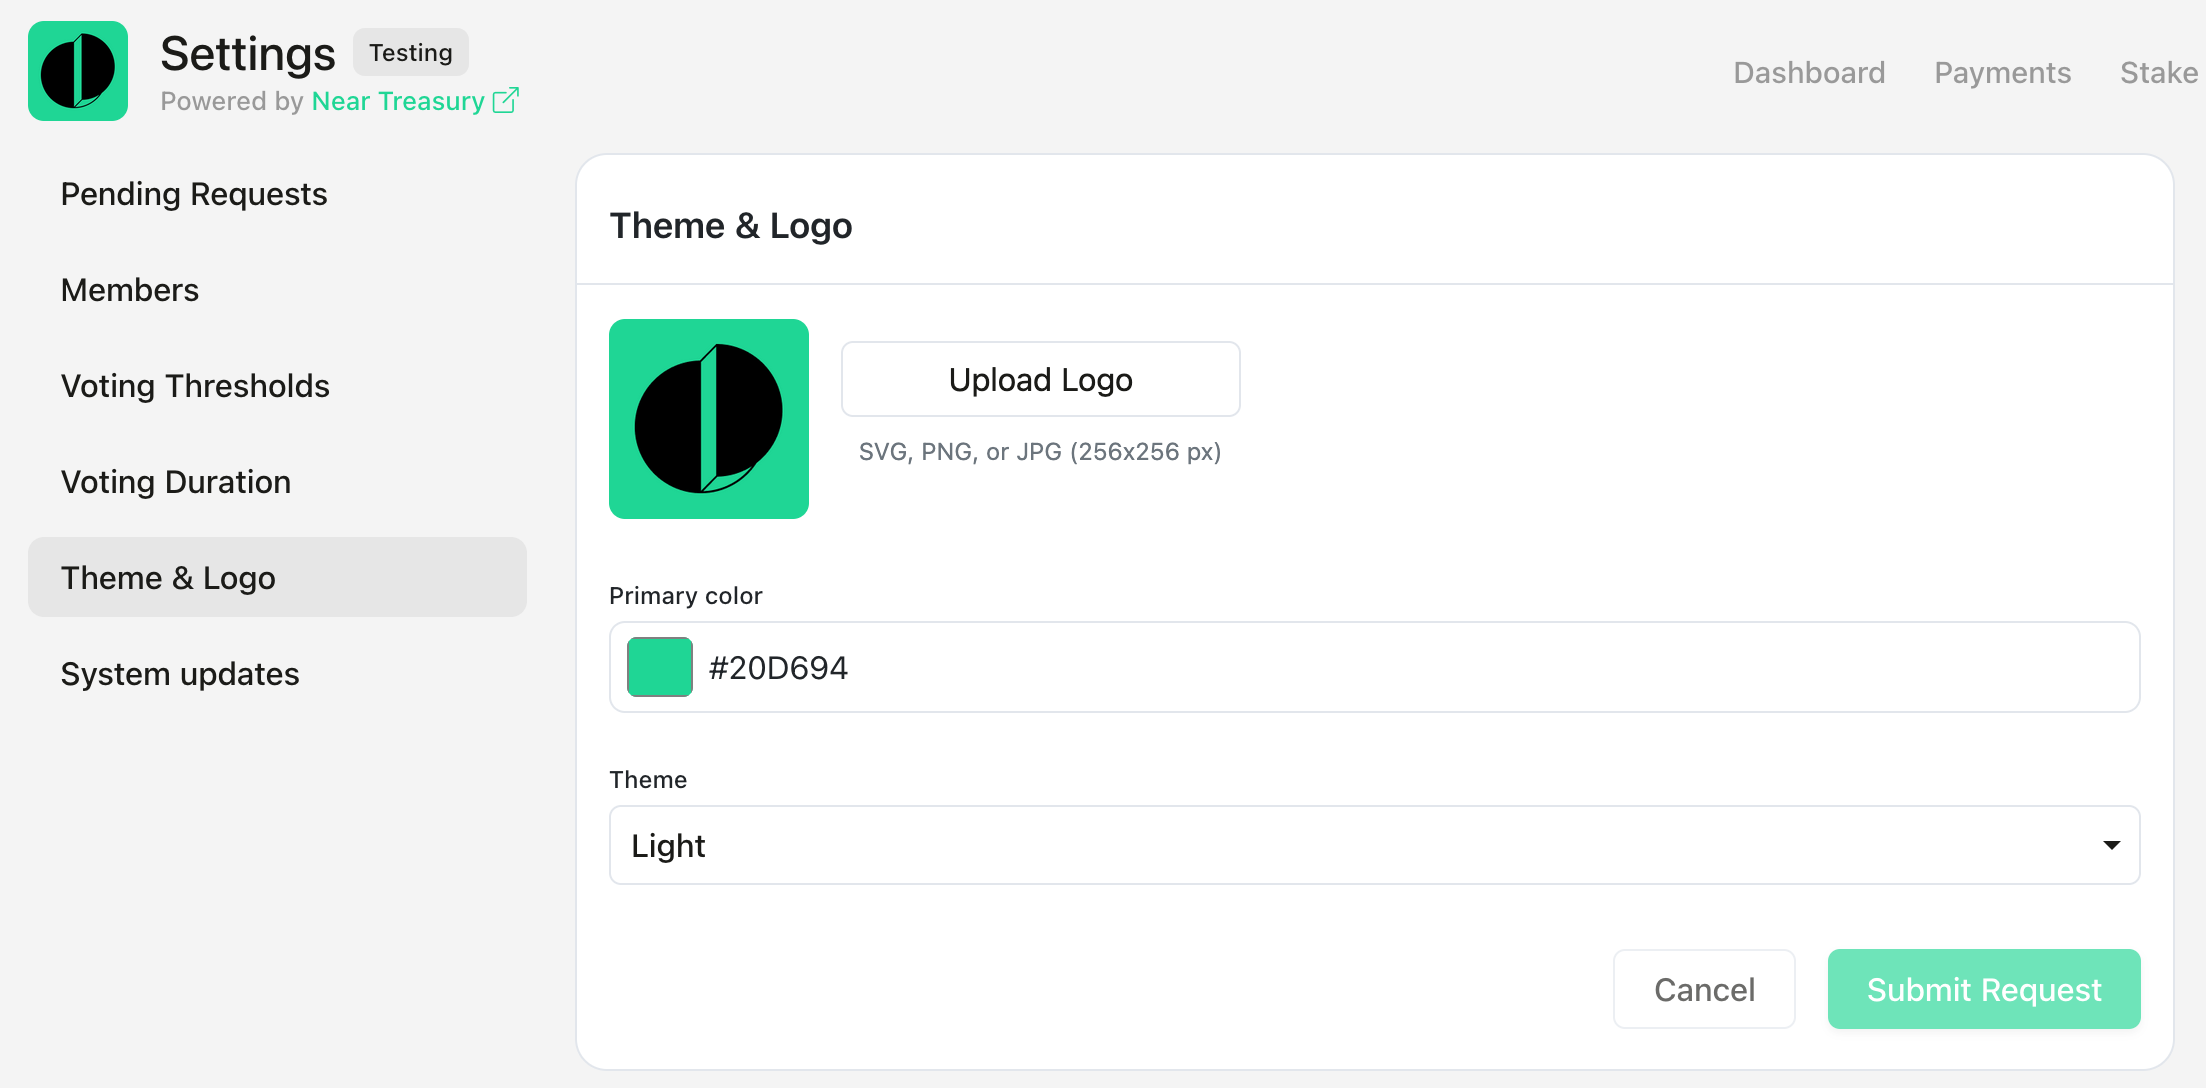
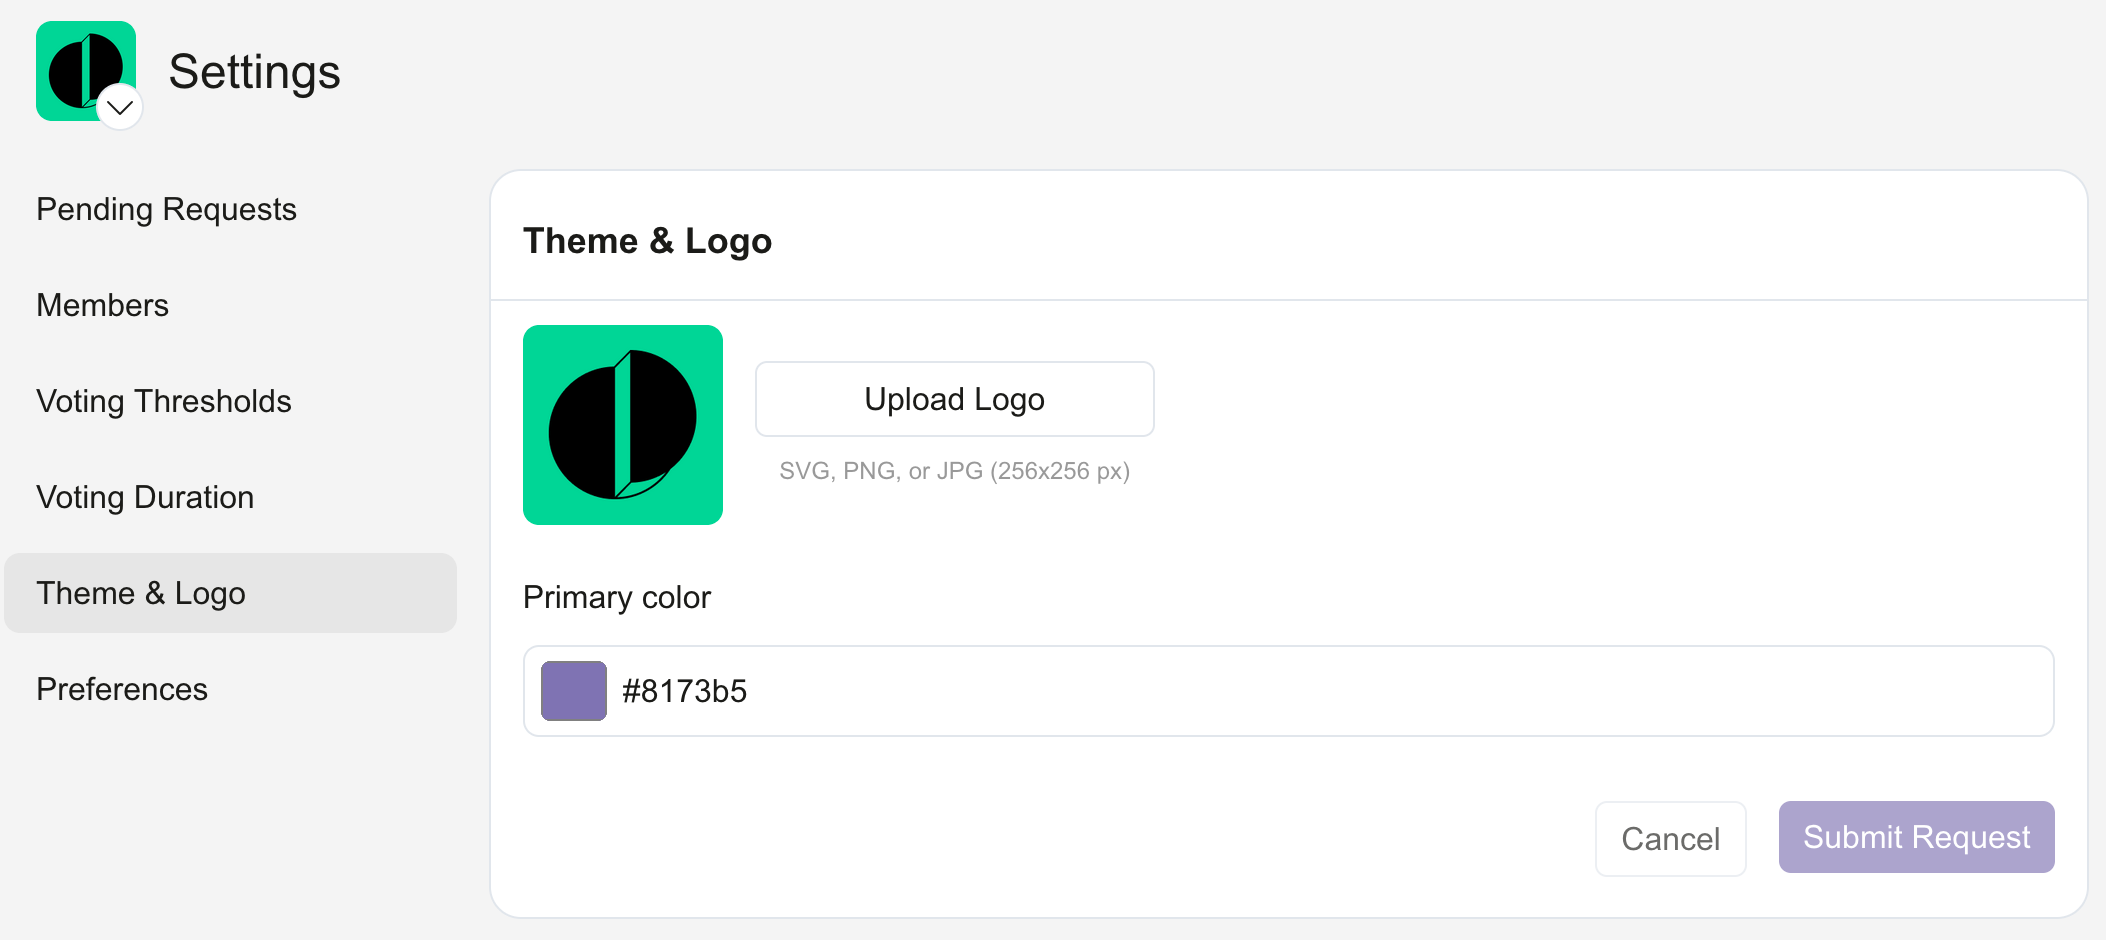
update

diff --git a/docs/settings.md b/docs/settings.md
@@ -205,7 +205,7 @@ To set a voting duration:
 
 ## Theme & Logo
 
-The **`Theme & Logo`** section lets Admins personalize the look of your dashboard. You can upload a custom logo, choose a primary color, and set the theme to dark or light mode.
+The **`Theme & Logo`** section lets Admins personalize the look of your dashboard. You can upload a custom logo and pick a primary color.
 
 <div class="screenshot">
 <img src="/img/settings/theme.png" width="70%" alt="theme logo" />
